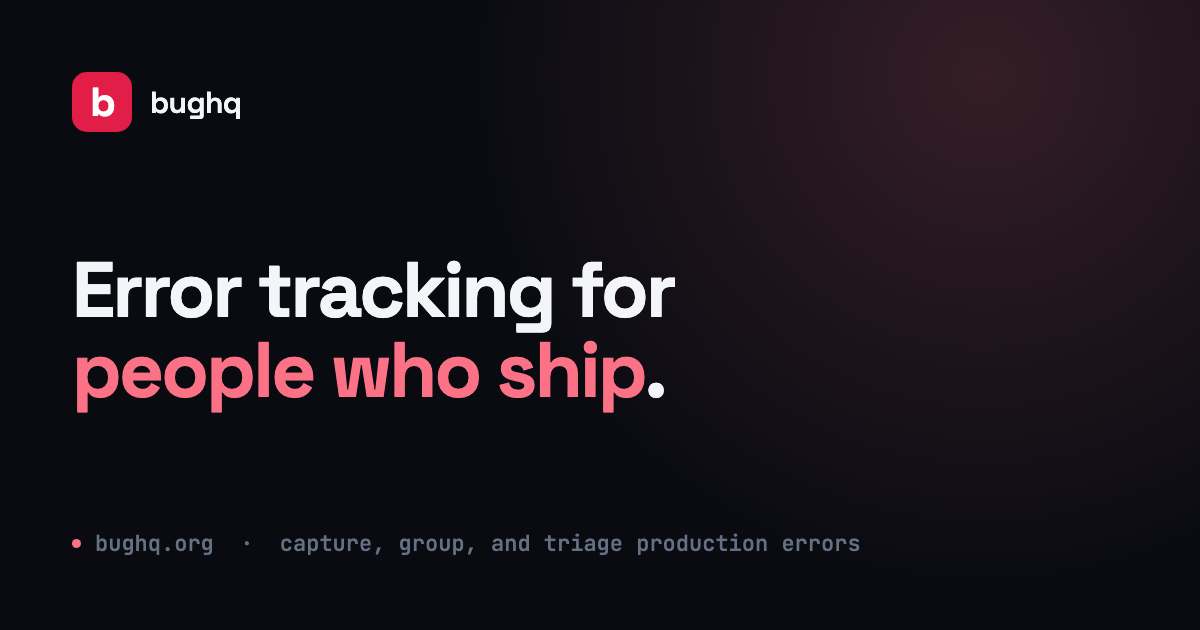
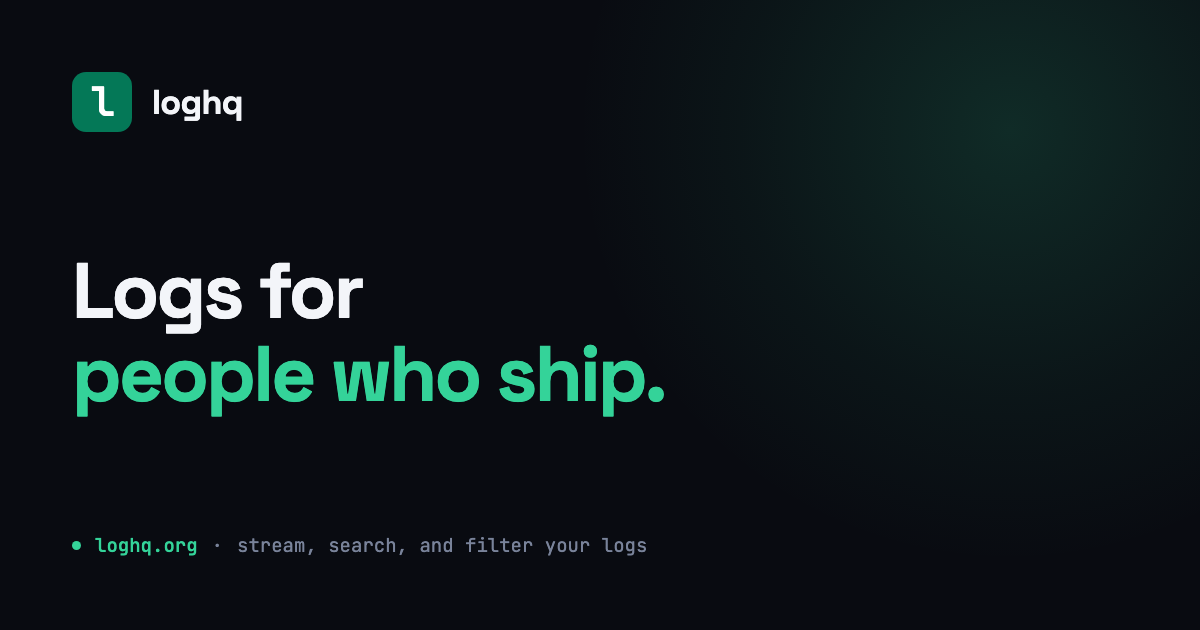
feat(brand): emerald accent, and an og image that is loghq's
Three things this app inherited from bughq and never changed.

The og image was bughq's. Literally: public/og.png read "bughq", "Error
tracking for people who ship", "bughq.org - capture, group, and triage
production errors". Every share of loghq.org has been advertising a
different product. The favicon was bughq's too, a rose square with the
letter "b".

The accent was #e11d48, which is byte-for-byte --sev-error. In a product
whose entire surface is log severity, the brand colour WAS the error
colour: every button, link and focus ring wore the one hue the severity
scale reserves for something being wrong. Chris put it as red being a bad
fit for logs, and the token file makes the same point by accident.

Emerald instead, #047857 light and #34d399 dark. It collides with --ok
rather than --sev-error, which is the milder trade: --ok is a UI success
state, not a severity, and nothing in the sev-* scale is green, so the
severity reading stays unambiguous. #047857 rather than the more obvious
emerald-600 #059669, which measures 3.65:1 on --bg and fails the 4.5 floor
this file holds everything else to; #047857 measures 5.31:1, itself an
improvement on the rose it replaces at 4.54:1.

The new card is authored in resources/og/card.html, in the site's own
fonts and tokens, with the regeneration command in its header. ts-images
cannot compose it: generateSocialImages resizes an EXISTING image into
per-platform sizes and has no text or layout primitives, and optimizeImage
[…]

diff --git a/resources/og/card.html b/resources/og/card.html
@@ -1,0 +1,118 @@
+<!doctype html>
+<!--
+  Source of truth for public/og.png (1200x630), the image every share of
+  loghq.org renders.
+
+  It is authored rather than generated because ts-images cannot compose a card:
+  its `generateSocialImages` resizes an EXISTING image into per-platform sizes
+  (og-facebook, og-twitter, ...) and has no text or layout primitives. So the
+  master is designed here, in the site's own fonts and tokens, and ts-images is
+  what derives the variants from it.
+
+  Regenerate after editing (playwright-core lives in the harness project):
+
+    bun -e '
+      const { chromium } = require(process.env.HOME + "/Documents/Stacks/harness/node_modules/playwright-core");
+      const b = await chromium.launch();
+      const p = await b.newPage({ viewport: { width: 1200, height: 630 }, deviceScaleFactor: 1 });
+      await p.goto("file://" + process.cwd() + "/resources/og/card.html");
+      await p.waitForTimeout(1200);
+      await p.screenshot({ path: "public/og.png" });
+      await b.close();
+    '
+
+  Colours are the dark-theme tokens from public/tokens.css. If --accent moves
+  again, this file and public/og.png move with it.
+-->
+<html lang="en">
+<head>
+<meta charset="utf-8">
+<link rel="preconnect" href="https://fonts.googleapis.com">
+<link rel="preconnect" href="https://fonts.gstatic.com" crossorigin>
+<link rel="stylesheet" href="https://fonts.googleapis.com/css2?family=Space+Grotesk:wght@400;500;600;700&family=JetBrains+Mono:wght@400;500;600&display=swap">
+<style>
+  :root {
+    --bg: #090b11;
+    --text: #f3f5f9;
+    --text-3: #79839a;
+    --accent: #34d399;
+    --accent-deep: #047857;
+    --accent-ink: #ffffff;
+  }
+  * { margin: 0; padding: 0; box-sizing: border-box; }
+  html, body { width: 1200px; height: 630px; }
+  body {
+    background: var(--bg);
+    font-family: 'Space Grotesk', ui-sans-serif, system-ui, sans-serif;
+    color: var(--text);
+    position: relative;
+    overflow: hidden;
+  }
+  /* The one flourish: a soft emerald bloom off the top-right corner, so the
+     card is not a flat rectangle at thumbnail size. */
+  .bloom {
+    position: absolute;
+    top: -320px; right: -260px;
+    width: 900px; height: 900px;
+    background: radial-gradient(circle, rgba(52, 211, 153, 0.16) 0%, rgba(52, 211, 153, 0.05) 42%, transparent 68%);
+  }
+  .frame {
+    position: relative;
+    height: 100%;
+    padding: 72px;
+    display: flex;
+    flex-direction: column;
+  }
+  .brand { display: flex; align-items: center; gap: 20px; }
+  .mark {
+    /* JetBrains Mono, not Space Grotesk. Space Grotesk draws lowercase "l" as a
+       bare vertical stroke, so the mark read as a capital "I". The mono "l" has
+       a tail, which is unambiguous and suits a logs product. */
+    font-family: 'JetBrains Mono', ui-monospace, SFMono-Regular, Menlo, monospace;
+    width: 60px; height: 60px; border-radius: 14px;
+    background: var(--accent-deep);
+    color: var(--accent-ink);
+    display: grid; place-items: center;
+    font-size: 40px; font-weight: 700; letter-spacing: -2px;
+    line-height: 1;
+  }
+  .wordmark { font-size: 34px; font-weight: 700; letter-spacing: -0.02em; }
+  .headline {
+    margin-top: auto;
+    font-size: 78px;
+    font-weight: 700;
+    line-height: 1.06;
+    letter-spacing: -0.035em;
+  }
+  .headline .accent { color: var(--accent); }
+  .footer {
+    margin-top: auto;
+    display: flex; align-items: center; gap: 14px;
+    font-family: 'JetBrains Mono', ui-monospace, SFMono-Regular, Menlo, monospace;
+    font-size: 19px;
+  }
+  .dot { width: 9px; height: 9px; border-radius: 50%; background: var(--accent); }
+  .domain { color: var(--accent); font-weight: 500; }
+  .sep { color: var(--text-3); }
+  .tag { color: var(--text-3); }
+</style>
+</head>
+<body>
+  <div class="bloom"></div>
+  <div class="frame">
+    <div class="brand">
+      <div class="mark">l</div>
+      <div class="wordmark">loghq</div>
+    </div>
+
+    <h1 class="headline">Logs for<br><span class="accent">people who ship.</span></h1>
+
+    <div class="footer">
+      <span class="dot"></span>
+      <span class="domain">loghq.org</span>
+      <span class="sep">·</span>
+      <span class="tag">stream, search, and filter your logs</span>
+    </div>
+  </div>
+</body>
+</html>

diff --git a/public/tokens.css b/public/tokens.css
@@ -65,16 +65,32 @@
    * 4.88:1 and 5.18:1. Both are the smallest step that clears AA on the worse
    * of the two surfaces, so "subtle" still reads as subtle. */
   --text-3: #6b7280;
-  --accent: #e11d48;
-  --accent-soft: rgba(225, 29, 72, 0.08);
+  /* Emerald, not the rose this shipped with.
+   *
+   * The old --accent was #e11d48, which is byte-for-byte --sev-error below. In
+   * a product whose whole surface is log severity, the brand colour WAS the
+   * error colour: every button, link and focus ring carried the one hue the
+   * severity scale reserves for something being wrong.
+   *
+   * Green collides with --ok instead, which is the milder trade. --ok is a UI
+   * success state, not a severity: nothing in the sev-* scale is green, so the
+   * severity reading stays unambiguous. Brand-as-healthy misleads nobody;
+   * brand-as-error did.
+   *
+   * #047857 rather than the more obvious #059669: emerald-600 measures 3.65:1
+   * on --bg, under the 4.5 floor this file holds everything else to. This one
+   * measures 5.31:1 on --bg and 5.48:1 on --panel, which is also an improvement
+   * on the rose it replaces (4.54:1, passing by 0.04). */
+  --accent: #047857;
+  --accent-soft: rgba(4, 120, 87, 0.08);
   /* Ink for text sitting ON a saturated fill — the accent, --warn, and the
    * Slack/Discord brand colours.
    *
    * It cannot be a hardcoded #fff, which is what the app markup and
    * app-chrome.css assumed. In dark mode the fills get LIGHTER, not darker:
-   * --accent is #fb7185 and the dashboard's indigo is #818cf8, where white
-   * measures 2.69:1 and 2.98:1. The dark value here measures 7.30:1 and 6.58:1
-   * on those same fills, and 7.10:1 on the dark --warn.
+   * --accent is #34d399 and the dashboard's indigo is #818cf8, where white
+   * measures 1.92:1 and 2.98:1. The dark value here measures 9.83:1 and 6.34:1
+   * on those same fills, and 6.83:1 on the dark --warn.
    *
    * marketing.css has had this token, correctly themed, since the marketing
    * pages were built; it just never reached the app surface, because that
@@ -112,9 +128,9 @@
     --text: #f3f5f9;
     --text-2: #b3bccb;
     --text-3: #79839a;
-    --accent: #fb7185;
-    --accent-soft: rgba(251, 113, 133, 0.1);
-    --accent-ink: #1a0509;
+    --accent: #34d399;
+    --accent-soft: rgba(52, 211, 153, 0.1);
+    --accent-ink: #04140d;
     --ok: #4ade80;
     --warn: #f87171;
   --sev-critical: #f43f5e;
@@ -134,9 +150,9 @@
   --text: #f3f5f9;
   --text-2: #b3bccb;
   --text-3: #79839a;
-  --accent: #fb7185;
-  --accent-soft: rgba(251, 113, 133, 0.1);
-  --accent-ink: #1a0509;
+  --accent: #34d399;
+  --accent-soft: rgba(52, 211, 153, 0.1);
+  --accent-ink: #04140d;
   --ok: #4ade80;
   --warn: #f87171;
   --sev-critical: #f43f5e;
@@ -155,8 +171,8 @@
   --text: #0b0f19;
   --text-2: #4b5565;
   --text-3: #6b7280;
-  --accent: #e11d48;
-  --accent-soft: rgba(225, 29, 72, 0.08);
+  --accent: #047857;
+  --accent-soft: rgba(4, 120, 87, 0.08);
   --accent-ink: #ffffff;
   --ok: #16a34a;
   --warn: #b91c1c;

diff --git a/public/marketing.css b/public/marketing.css
@@ -1,6 +1,6 @@
 /* loghq marketing surface — shared design tokens + components.
   Every marketing page (landing, feature pages, use-cases) links this so the
-  whole surface stays visually identical. Light + dark, Space Grotesk, rose accent. */
+  whole surface stays visually identical. Light + dark, Space Grotesk, emerald accent. */
 
 :root {
   --bg: #fbfbfd;
@@ -11,8 +11,8 @@
   --text: #0b0f19;
   --text-2: #4b5565;
   --text-3: #6b7280;
-  --accent: #e11d48;
-  --accent-line: rgba(225, 29, 72, 0.34);
+  --accent: #047857;
+  --accent-line: rgba(4, 120, 87, 0.34);
   --code-bg: #0b0f19;
   --code-ink: #d6deeb;
   /* Caption ink for the code surface. Not --text-3: the code block is dark
@@ -31,8 +31,8 @@
     --bg: #090b11; --surface: #10131c; --surface-2: #161a24;
     --border: rgba(148, 163, 184, 0.12); --border-strong: rgba(148, 163, 184, 0.2);
     --text: #f3f5f9; --text-2: #b3bccb; --text-3: #79839a;
-    --accent: #fb7185;
-    --accent-line: rgba(251, 113, 133, 0.32);
+    --accent: #34d399;
+    --accent-line: rgba(52, 211, 153, 0.32);
     --code-bg: #05070c;
   }
 }
@@ -40,16 +40,16 @@
   --bg: #090b11; --surface: #10131c; --surface-2: #161a24;
   --border: rgba(148, 163, 184, 0.12); --border-strong: rgba(148, 163, 184, 0.2);
   --text: #f3f5f9; --text-2: #b3bccb; --text-3: #79839a;
-  --accent: #fb7185;
-  --accent-line: rgba(251, 113, 133, 0.32);
+  --accent: #34d399;
+  --accent-line: rgba(52, 211, 153, 0.32);
   --code-bg: #05070c;
 }
 :root[data-theme="light"] {
   --bg: #fbfbfd; --surface: #ffffff; --surface-2: #f4f5f8;
   --border: rgba(15, 23, 42, 0.09); --border-strong: rgba(15, 23, 42, 0.16);
   --text: #0b0f19; --text-2: #4b5565; --text-3: #6b7280;
-  --accent: #e11d48;
-  --accent-line: rgba(225, 29, 72, 0.34);
+  --accent: #047857;
+  --accent-line: rgba(4, 120, 87, 0.34);
   --code-bg: #0b0f19;
 }
 
@@ -77,6 +77,9 @@ a { color: inherit; text-decoration: none; }
 .nav-inner { display: flex; align-items: center; justify-content: space-between; gap: 1.25rem; min-height: 68px; }
 .brand { display: inline-flex; align-items: center; gap: 0.6rem; }
 .brand-mark {
+  /* Mono for the glyph: Space Grotesk draws lowercase "l" as a bare vertical
+     stroke, which reads as a capital "I" at 30px. */
+  font-family: var(--mono);
   display: grid; place-items: center; width: 30px; height: 30px;
   border: 1px solid var(--accent-line); border-radius: var(--r-sm);
   color: var(--accent); font-weight: 700; font-size: 1rem; line-height: 1;
